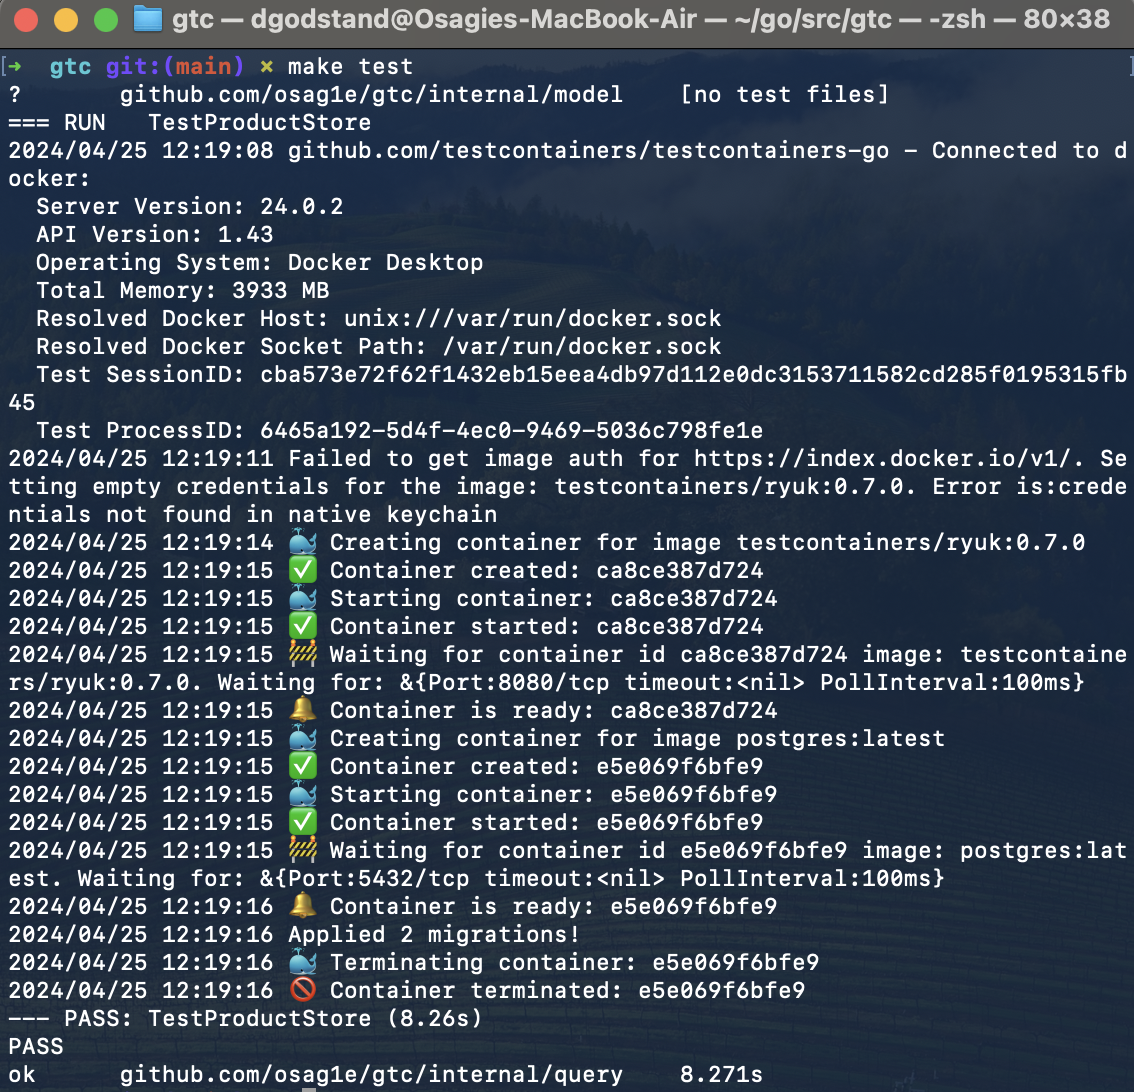
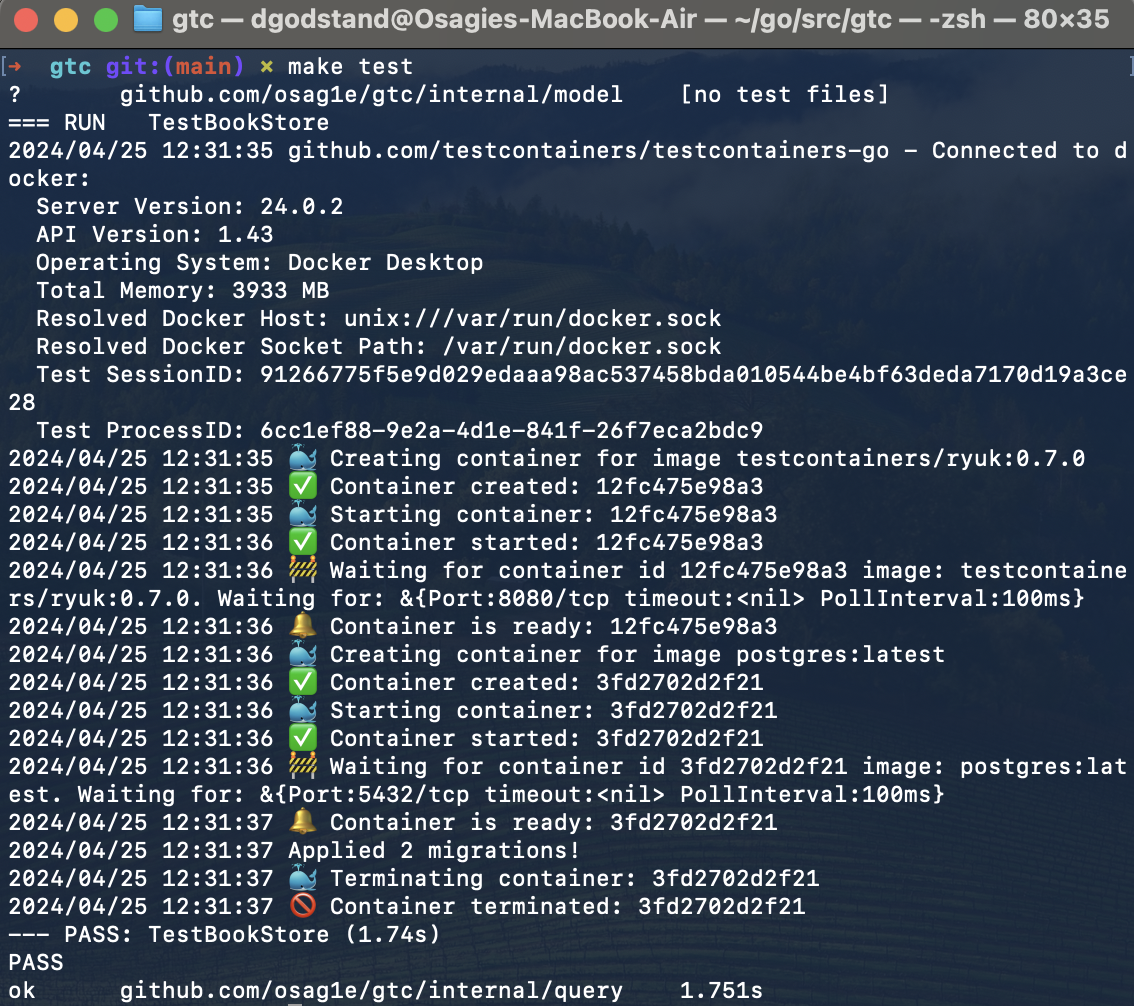
feat: using testcontainers with go and postgres.

Changed region(s): [[0.0, 0.0, 1.0, 1.0], [0.0926, 0.9861, 0.5556, 1.0], [0.5864, 0.9553, 0.679, 1.0]]

diff --git a/internal/query/book_repo_test.go b/internal/query/book_repo_test.go
@@ -17,7 +17,7 @@ import (
 	"github.com/testcontainers/testcontainers-go/wait"
 )
 
-func TestProductStore(t *testing.T) {
+func TestBookStore(t *testing.T) {
 	container, sqlDB, err := SetupTestDatabase()
 	if err != nil {
 		t.Fatal(err)

diff --git a/README.md b/README.md
@@ -1,3 +1,3 @@
 # gtc
 
-![gtc](https://github.com/osag1e/gtc/blob/main/image/gtc.png)
+![GTC](https://github.com/osag1e/gtc/blob/main/image/GTC.png)
